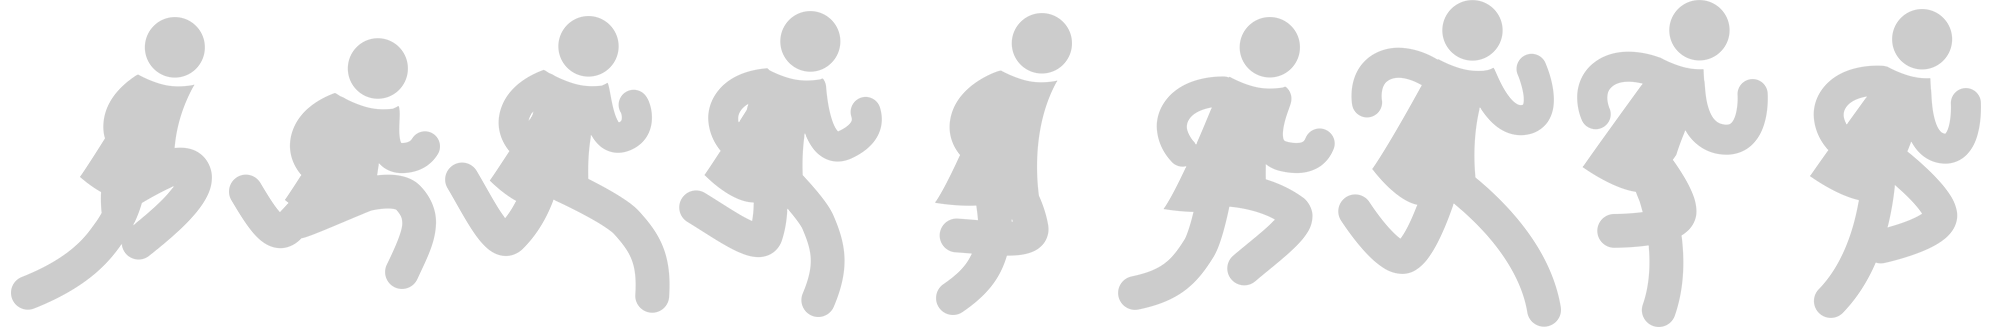
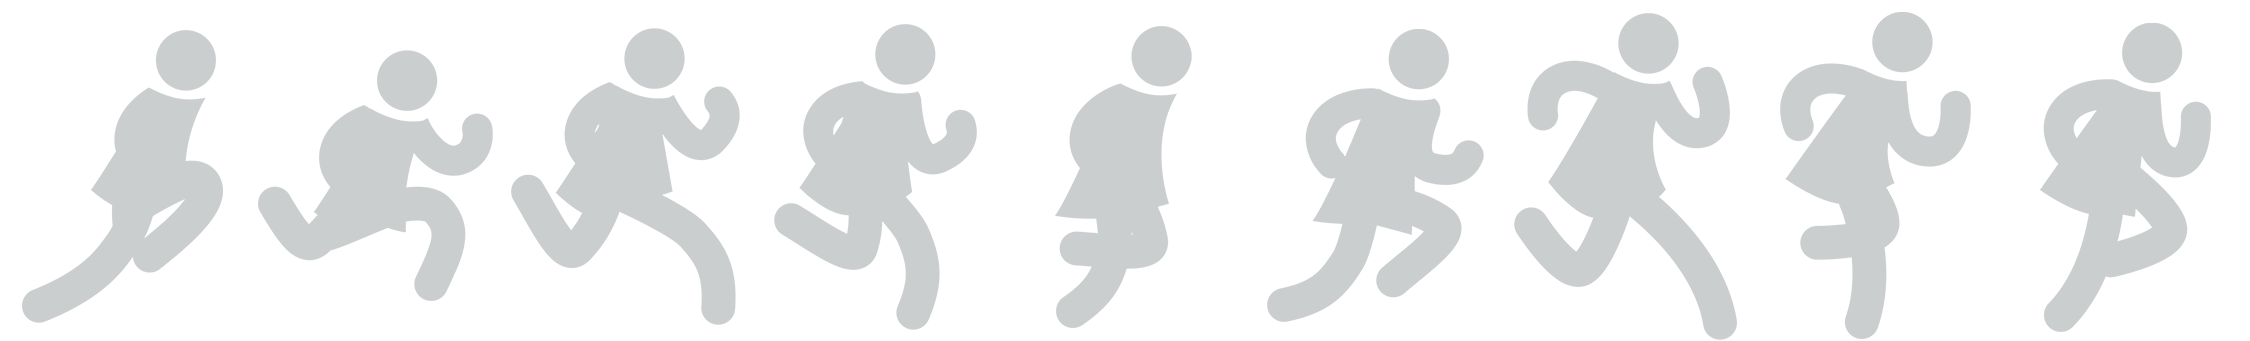
Add obstacle pngs

diff --git a/dist/index.js b/dist/index.js
@@ -1,1 +1,1 @@
-!function e(t,n,i){function o(a,c){if(!n[a]){if(!t[a]){var u="function"==typeof require&&require;if(!c&&u)return u(a,!0);if(r)return r(a,!0);var d=new Error("Cannot find module '"+a+"'");throw d.code="MODULE_NOT_FOUND",d}var s=n[a]={exports:{}};t[a][0].call(s.exports,function(e){var n=t[a][1][e];return o(n?n:e)},s,s.exports,e,t,n,i)}return n[a].exports}for(var r="function"==typeof require&&require,a=0;a<i.length;a++)o(i[a]);return o}({1:[function(e,t,n){"use strict";function i(e){return e&&e.__esModule?e:{"default":e}}var o=e("./play-game"),r=i(o);(0,r["default"])()},{"./play-game":3}],2:[function(e,t,n){"use strict";Object.defineProperty(n,"__esModule",{value:!0});var i=30;n["default"]=function(e){var t=e.context,n=e.height,o=e.width,r=e.imageHeight,a=e.imageWidth,c=e.xPos,u=void 0===c?0:c,d=e.yPos,s=void 0===d?0:d,l=e.image,f=e.loop,h=e.numberOfFrames,m=void 0===h?1:h,g=e.ticksPerFrame,v=void 0===g?1:g,p={context:t,imageWidth:a,imageHeight:r,width:o||a,height:n||r,xPos:u,yPos:s,ticksPerFrame:v,numberOfFrames:m,image:l,loop:f,frameIndex:0,tickCount:0,update:function(e){var t=e.x,n=e.y,i=e.absolute,o=void 0===i?!1:i;t&&(p.xPos=o?t:p.xPos+t),n&&(p.yPos=o?n:p.yPos+n),p.context.drawImage(p.image,p.frameIndex*p.imageWidth,0,p.imageWidth,p.imageHeight,p.xPos,p.yPos,p.width,p.height),p.tickCount+=1,p.tickCount>=p.ticksPerFrame&&(p.tickCount=0,p.frameIndex<p.numberOfFrames-1?p.frameIndex+=1:p.loop&&(p.frameIndex=0))},getRect:function(){return{top:p.yPos+i,bottom:p.yPos+p.height-i,left:p.xPos+i,right:p.xPos+p.width-i}},collidingWith:function(e){var t=p.getRect(),n=e.getRect();return!(n.left>t.right||n.right<t.left||n.top>t.bottom||n.bottom<t.top)}};return p}},{}],3:[function(e,t,n){"use strict";function i(e){return e&&e.__esModule?e:{"default":e}}function o(){function e(){return(Math.floor(D/100)+1)/2}function t(){return h+e()*m}function n(){T=-l.height+L.height+x}function i(){for(var e=0;e<_.length;e++)if(L.collidingWith(_[e]))return!0}function r(){return I=window.requestAnimationFrame(r),l.getContext("2d").clearRect(0,0,l.width,l.height),L.update({y:-T,absolute:!0}),W.forEach(function(e,t){e.update({x:e.speed}),e.xPos>l.width&&W.splice(t,1)}),_.forEach(function(e){e.xPos+e.width<0?_.splice(_.indexOf(e),1):e.update({x:-t()})}),i()?void q():void 0}function u(){D+=1,s.querySelector(".score").innerHTML=D}function b(){if(Math.random()>=y){var e=Math.random()>=.5?"female":"male",t=10*(Math.random()-.5)+10,n=100*(Math.random()-.5),i=327+n,o=223+n,r=new Image;r.src="/images/cis/running-"+e+".png";var c=(0,a["default"])({context:f,imageWidth:223,imageHeight:327,width:o,height:i,numberOfFrames:9,image:r,ticksPerFrame:5,loop:!0,xPos:-o-n,yPos:l.height-i-x});c.speed=t,W.push(c)}}function F(e){if(e.preventDefault(),!L.actioning){var i=g/t(),o=new Date;P=setInterval(function(){n();var e=new Date,t=e-o;T+=Math.sin(t*Math.PI/i)*v},1),w=setTimeout(function(){clearInterval(P),n(),L.actioning=!1},i),L.actioning=!0}}function M(){}function q(){clearInterval(j),clearInterval(P),clearInterval(R),clearTimeout(w),window.cancelAnimationFrame(I),o()}function k(){d.innerHTML='<div class="button jump"></div><div class="button slide"></div>';var e=d.querySelector(".jump"),t=d.querySelector(".slide"),n="calc(50% - "+p/2+"px)";e.style.height=n,t.style.height=n,N=e.addEventListener("touchend",F),U=t.addEventListener("touchend",M),c||(document.addEventListener("keydown",function(e){F()}),document.addEventListener("keydown",function(e){M()}))}function O(){s.innerHTML='<div class="frame"></div><div class="score"></div>';var e=s.querySelector(".frame");e.style.height="calc(100% - "+p+"px - 10px)";var t=s.querySelector(".score");t.style.height=p+"px",t.style.lineHeight=p-15+"px"}function E(){window.addEventListener("mousewheel",function(e){e.preventDefault(),e.stopPropagation()})}var H=new Image;H.src="/images/trans/running.png";var L=(0,a["default"])({context:f,imageWidth:223,imageHeight:327,width:200,height:300,numberOfFrames:9,image:H,ticksPerFrame:6,xPos:15,yPos:l.height-300-x,loop:!0});L.actioning=!1;var S=(0,a["default"])({context:f,imageWidth:223,imageHeight:327,numberOfFrames:9,image:H,ticksPerFrame:10,loop:!0,xPos:l.width+327,yPos:l.height-327-x}),_=[S],W=[],C=[L].concat(_).concat(W),D=0,T=void 0;n();var j=setInterval(u,100),R=setInterval(b,1e3),A=0;C.forEach(function(e){e.image.addEventListener("load",function(){A++,A===C.length&&r()})});var N=void 0,U=void 0;k(),O(),E()}Object.defineProperty(n,"__esModule",{value:!0});var r=e("./create-sprite"),a=i(r),c=!0,u=document.querySelector(".main"),d=u.querySelector(".buttons"),s=u.querySelector(".overlay"),l=u.querySelector(".canvas"),f=l.getContext("2d"),h=10,m=5,g=12500,v=450,p=125,x=p*(l.height/parseInt(window.getComputedStyle(l).height,10)),y=.5,P=void 0,w=void 0,I=void 0;n["default"]=o},{"./create-sprite":2}]},{},[1]);
+!function e(t,n,i){function r(a,c){if(!n[a]){if(!t[a]){var u="function"==typeof require&&require;if(!c&&u)return u(a,!0);if(o)return o(a,!0);var s=new Error("Cannot find module '"+a+"'");throw s.code="MODULE_NOT_FOUND",s}var d=n[a]={exports:{}};t[a][0].call(d.exports,function(e){var n=t[a][1][e];return r(n?n:e)},d,d.exports,e,t,n,i)}return n[a].exports}for(var o="function"==typeof require&&require,a=0;a<i.length;a++)r(i[a]);return r}({1:[function(e,t,n){"use strict";function i(e){return e&&e.__esModule?e:{"default":e}}var r=e("./play-game"),o=i(r);(0,o["default"])()},{"./play-game":3}],2:[function(e,t,n){"use strict";Object.defineProperty(n,"__esModule",{value:!0});var i=30;n["default"]=function(e){var t=e.context,n=e.height,r=e.width,o=e.imageHeight,a=e.imageWidth,c=e.xPos,u=void 0===c?0:c,s=e.yPos,d=void 0===s?0:s,l=e.image,f=e.loop,h=e.numberOfFrames,m=void 0===h?1:h,g=e.ticksPerFrame,v=void 0===g?1:g,p={context:t,imageWidth:a,imageHeight:o,width:r||a,height:n||o,xPos:u,yPos:d,ticksPerFrame:v,numberOfFrames:m,image:l,loop:f,frameIndex:0,tickCount:0,update:function(e){var t=e.x,n=e.y,i=e.absolute,r=void 0===i?!1:i;t&&(p.xPos=r?t:p.xPos+t),n&&(p.yPos=r?n:p.yPos+n),p.context.drawImage(p.image,p.frameIndex*p.imageWidth,0,p.imageWidth,p.imageHeight,p.xPos,p.yPos,p.width,p.height),p.numberOfFrames>1&&(p.tickCount+=1,p.tickCount>=p.ticksPerFrame&&(p.tickCount=0,p.frameIndex<p.numberOfFrames-1?p.frameIndex+=1:p.loop&&(p.frameIndex=0)))},getRect:function(){return{top:p.yPos+i,bottom:p.yPos+p.height-i,left:p.xPos+i,right:p.xPos+p.width-i}},collidingWith:function(e){var t=p.getRect(),n=e.getRect();return!(n.left>t.right||n.right<t.left||n.top>t.bottom||n.bottom<t.top)}};return p}},{}],3:[function(e,t,n){"use strict";function i(e){return e&&e.__esModule?e:{"default":e}}function r(){function e(){return(Math.floor(R/100)+1)/2}function t(){return h+e()*m}function n(){A=-l.height+W.height+x}function i(){for(var e=0;e<C.length;e++)if(W.collidingWith(C[e]))return!0}function o(){return I=window.requestAnimationFrame(o),l.getContext("2d").clearRect(0,0,l.width,l.height),T.forEach(function(e,n){e.update({x:-t()/2}),e.xPos+e.width<0&&T.splice(n,1)}),D.forEach(function(e,t){e.update({x:e.speed}),e.xPos>l.width&&D.splice(t,1)}),C.forEach(function(e,n){e.update({x:-t()}),e.xPos+e.width<0&&C.splice(n,1)}),W.update({y:-A,absolute:!0}),i()?void O():void 0}function u(){console.log("new level"),W.ticksPerFrame>1&&(W.ticksPerFrame-=1)}function b(){var t=e();R+=1;var n=e();n>t&&u(),d.querySelector(".score").innerHTML=R}function F(){if(Math.random()>=y){var e=Math.random()>=.5?"female":"male",t=10*(Math.random()-.5)+10,n=100,i=300,r=200,o=new Image;o.src="/images/cis/running-"+e+".png";var c=(0,a["default"])({context:f,imageWidth:"female"===e?250:223,imageHeight:327,width:r,height:i,numberOfFrames:9,image:o,ticksPerFrame:5,loop:!0,xPos:-r-n,yPos:l.height-i-x});c.speed=t,D.push(c)}}function k(){var e=new Image;e.src="/images/misc/bathroom-sign.png";var t=(0,a["default"])({context:f,imageWidth:127,imageHeight:167,numberOfFrames:1,image:e,xPos:l.width+127,yPos:100});T.push(t)}function q(e){if(e.preventDefault(),!W.actioning){var i=g/t(),r=new Date;P=setInterval(function(){n();var e=new Date,t=e-r;A+=Math.sin(t*Math.PI/i)*v},1),w=setTimeout(function(){clearInterval(P),n(),W.actioning=!1},i),W.actioning=!0}}function M(){}function O(){clearInterval(N),clearInterval(P),clearInterval(U),clearInterval(z),clearTimeout(w),window.cancelAnimationFrame(I),r()}function E(){s.innerHTML='<div class="button jump"></div><div class="button slide"></div>';var e=s.querySelector(".jump"),t=s.querySelector(".slide"),n="calc(50% - "+p/2+"px)";e.style.height=n,t.style.height=n,G=e.addEventListener("touchend",q),J=t.addEventListener("touchend",M),c||(document.addEventListener("keydown",function(e){q()}),document.addEventListener("keydown",function(e){M()}))}function H(){d.innerHTML='<div class="frame"></div><div class="score"></div>';var e=d.querySelector(".frame");e.style.height="calc(100% - "+p+"px - 10px)";var t=d.querySelector(".score");t.style.height=p+"px",t.style.lineHeight=p-15+"px"}function L(){window.addEventListener("mousewheel",function(e){e.preventDefault(),e.stopPropagation()})}var S=new Image;S.src="/images/trans/running.png";var W=(0,a["default"])({context:f,imageWidth:250,imageHeight:341,width:200,height:300,numberOfFrames:9,image:S,ticksPerFrame:6,xPos:50,yPos:l.height-300-x,loop:!0});W.actioning=!1;var _=(0,a["default"])({context:f,imageWidth:250,imageHeight:341,numberOfFrames:9,image:S,ticksPerFrame:10,loop:!0,xPos:l.width+327,yPos:l.height-327-x}),C=[_],D=[],T=[],j=[W].concat(C).concat(D).concat(T),R=0,A=void 0;n();var N=setInterval(b,100),U=setInterval(F,1e3),z=setInterval(k,5e3),B=0;j.forEach(function(e){e.image.addEventListener("load",function(){B++,B===j.length&&o()})});var G=void 0,J=void 0;E(),H(),L()}Object.defineProperty(n,"__esModule",{value:!0});var o=e("./create-sprite"),a=i(o),c=!0,u=document.querySelector(".main"),s=u.querySelector(".buttons"),d=u.querySelector(".overlay"),l=u.querySelector(".canvas"),f=l.getContext("2d"),h=10,m=5,g=12500,v=450,p=125,x=p*(l.height/parseInt(window.getComputedStyle(l).height,10)),y=.5,P=void 0,w=void 0,I=void 0;n["default"]=r},{"./create-sprite":2}]},{},[1]);

diff --git a/client/play-game.js b/client/play-game.js
@@ -25,14 +25,14 @@ function play () {
   transRunningImage.src = '/images/trans/running.png';
   const transRunner = createSprite({
     context,
-    imageWidth: 223,
-    imageHeight: 327,
+    imageWidth: 250,
+    imageHeight: 341,
     width: 200,
     height: 300,
     numberOfFrames: 9,
     image: transRunningImage,
     ticksPerFrame: 6,
-    xPos: 15,
+    xPos: 50,
     yPos: canvas.height - 300 - ground,
     loop: true
   });
@@ -40,8 +40,8 @@ function play () {
 
   const barrier = createSprite({
     context,
-    imageWidth: 223,
-    imageHeight: 327,
+    imageWidth: 250,
+    imageHeight: 341,
     numberOfFrames: 9,
     image: transRunningImage,
     ticksPerFrame: 10,
@@ -52,7 +52,8 @@ function play () {
 
   let obstacles = [barrier];
   let cisRunners = [];
-  let startingSprites = [transRunner].concat(obstacles).concat(cisRunners);
+  let bathroomSigns = [];
+  let startingSprites = [transRunner].concat(obstacles).concat(cisRunners).concat(bathroomSigns);
   let distance = 0;
   function getLevel () {
     return (Math.floor(distance / 100) + 1) / 2;
@@ -77,28 +78,46 @@ function play () {
   function animationLoop () {
     animationLoopId = window.requestAnimationFrame(animationLoop);
     canvas.getContext('2d').clearRect(0, 0, canvas.width, canvas.height);
-    transRunner.update({ y: -runnerY, absolute: true });
+    bathroomSigns.forEach((sprite, idx) => {
+      sprite.update({ x: -getSpeed() / 2 });
+      if (sprite.xPos + sprite.width < 0) {
+        bathroomSigns.splice(idx, 1);
+      }
+    });
     cisRunners.forEach((sprite, idx) => {
       sprite.update({ x: sprite.speed });
       if (sprite.xPos > canvas.width) {
         cisRunners.splice(idx, 1);
       }
     });
-    obstacles.forEach((sprite) => {
+    obstacles.forEach((sprite, idx) => {
+      sprite.update({ x: -getSpeed() });
       if (sprite.xPos + sprite.width < 0) {
-        obstacles.splice(obstacles.indexOf(sprite), 1);
-      } else {
-        sprite.update({ x: -getSpeed() });
+        obstacles.splice(idx, 1);
       }
     });
+    transRunner.update({ y: -runnerY, absolute: true });
+
     if (detectCollisions()) {
       die();
       return;
     }
   }
 
+  function nextLevel () {
+    console.log('new level');
+    if (transRunner.ticksPerFrame > 1) {
+      transRunner.ticksPerFrame -= 1;
+    }
+  }
+
   function updateDistance () {
+    var currentLevel = getLevel();
     distance += 1;
+    var newLevel = getLevel();
+    if (newLevel > currentLevel) {
+      nextLevel();
+    }
     overlay.querySelector('.score').innerHTML = distance;
   }
 
@@ -108,16 +127,19 @@ function play () {
     if (Math.random() >= cisChance) {
       const gender = (Math.random() >= 0.5 ? 'female' : 'male');
       const speed = ((Math.random() - 0.5) * 10) + 10;
-      const size = (Math.random() - 0.5) * 100;
-      const newHeight = 327 + size;
-      const newWidth = 223 + size;
+      // const size = (Math.random() - 0.5) * 100;
+      // const newHeight = 327 + size;
+      // const newWidth = 223 + size;
+      const size = 100;
+      const newHeight = 300;
+      const newWidth = 200;
 
       const cisRunningImage = new Image();
       cisRunningImage.src = '/images/cis/running-' + gender + '.png';
       const cisRunner = createSprite({
         context,
-        imageWidth: 223,
-        imageHeight: 327,
+        imageWidth: gender === 'female' ? 250 : 223,
+        imageHeight: gender === 'female' ? 327 : 327,
         width: newWidth,
         height: newHeight,
         numberOfFrames: 9,
@@ -134,6 +156,24 @@ function play () {
   }
 
   const cisRunnersInterval = setInterval(generateCisRunner, 1000);
+
+  function generateBathroomSign () {
+    const bathroomSignImage = new Image();
+    bathroomSignImage.src = '/images/misc/bathroom-sign.png';
+    const bathroomSign = createSprite({
+      context,
+      imageWidth: 127,
+      imageHeight: 167,
+      numberOfFrames: 1,
+      image: bathroomSignImage,
+      xPos: canvas.width + 127,
+      yPos: 100
+    });
+
+    bathroomSigns.push(bathroomSign);
+  }
+
+  const bathroomSignsInterval = setInterval(generateBathroomSign, 5000);
 
   let loadedSprites = 0;
   startingSprites.forEach((sprite) => {
@@ -175,6 +215,7 @@ function play () {
     clearInterval(runningInterval);
     clearInterval(actionInterval);
     clearInterval(cisRunnersInterval);
+    clearInterval(bathroomSignsInterval);
     clearTimeout(actionTimeout);
     window.cancelAnimationFrame(animationLoopId);
     play();

diff --git a/client/create-sprite.js b/client/create-sprite.js
@@ -35,13 +35,15 @@ export default ({ context, height, width, imageHeight, imageWidth, xPos = 0, yPo
         spriteObject.height
       );
 
-      spriteObject.tickCount += 1;
-      if (spriteObject.tickCount >= spriteObject.ticksPerFrame) {
-        spriteObject.tickCount = 0;
-        if (spriteObject.frameIndex < spriteObject.numberOfFrames - 1) {
-          spriteObject.frameIndex += 1;
-        } else if (spriteObject.loop) {
-          spriteObject.frameIndex = 0;
+      if (spriteObject.numberOfFrames > 1) {
+        spriteObject.tickCount += 1;
+        if (spriteObject.tickCount >= spriteObject.ticksPerFrame) {
+          spriteObject.tickCount = 0;
+          if (spriteObject.frameIndex < spriteObject.numberOfFrames - 1) {
+            spriteObject.frameIndex += 1;
+          } else if (spriteObject.loop) {
+            spriteObject.frameIndex = 0;
+          }
         }
       }
     },
